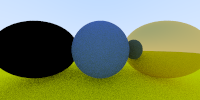
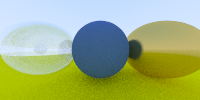
refract

diff --git a/src/main.cpp b/src/main.cpp
@@ -1,5 +1,4 @@
 #include <float.h>
-#include <random>
 #include <fstream>
 #include <iostream>
 
@@ -10,6 +9,7 @@
 #include <examples/imgui_impl_opengl3.h>
 
 #include "common.hpp"
+#include "random.hpp"
 #include "shader_utils.hpp"
 
 #include "camera.hpp"
@@ -17,52 +17,38 @@
 #include "material.hpp"
 #include "sphere.hpp"
 
-static const int Width = 200;
-static const int Height = 100;
-static const int Step = 100;
+namespace {
+const int Width = 200;
+const int Height = 100;
+const int Step = 100;
 
-static const int PositionLocation = 0;
-static const int PositionSize = 3;
+const int PositionLocation = 0;
+const int PositionSize = 3;
 
-static std::mt19937 randomEngine;
+GLFWwindow *window = nullptr;
 
-static GLFWwindow *window = nullptr;
+GLuint vIndex = 0;
+GLuint vPosition = 0;
+GLuint vertexArraysObject = 0;
 
-static GLuint vIndex = 0;
-static GLuint vPosition = 0;
-static GLuint vertexArraysObject = 0;
+GLint uTime = 0;
+GLint uMouse = 0;
+GLint uResolution = 0;
+GLint uImage0 = 0;
 
-static GLint uTime = 0;
-static GLint uMouse = 0;
-static GLint uResolution = 0;
-static GLint uImage0 = 0;
+GLuint texImage0 = 0;
 
-static GLuint texImage0 = 0;
+GLuint program = 0;
 
-static GLuint program = 0;
+char *pixels = nullptr;
 
-static char *pixels = nullptr;
+const GLfloat positions[] = {-1.0f, 1.0f,  0.0f, 1.0f, 1.0f,  0.0f,
+                             -1.0f, -1.0f, 0.0f, 1.0f, -1.0f, 0.0f};
 
-static const GLfloat positions[] = {-1.0f, 1.0f,  0.0f, 1.0f, 1.0f,  0.0f,
-                                    -1.0f, -1.0f, 0.0f, 1.0f, -1.0f, 0.0f};
+const GLushort indices[] = {0, 2, 1, 1, 2, 3};
 
-static const GLushort indices[] = {0, 2, 1, 1, 2, 3};
-
-static void glfw_error_callback(int error, const char *description) {
+void glfw_error_callback(int error, const char *description) {
     std::cerr << "error " << error << ": " << description << std::endl;
-}
-
-glm::vec3 randomInUnitSphere() {
-    std::uniform_real_distribution<float> random(-1.0f, 1.0f);
-
-    glm::vec3 p;
-
-    do {
-        p = glm::vec3(random(randomEngine), random(randomEngine),
-                      random(randomEngine));
-    } while (glm::length2(p) < 1.0f);
-
-    return p;
 }
 
 glm::vec3 getColor(const Ray &ray, Hittable *world, int depth) {
@@ -166,8 +152,11 @@ static void readText(char *&memblock, const char *const path) {
     memblock[size] = '\0';
     file.close();
 }
+}  // namespace
 
 int main(void) {
+    initializeRandomEngine();
+
     /* Initialize the library */
     if (!glfwInit()) return -1;
 
@@ -244,30 +233,27 @@ int main(void) {
     glm::vec3 vertical(0.0f, 2.0f, 0.0f);
     glm::vec3 origin(0.0f, 0.0f, 0.0f);
 
-    Hittable *list[4];
+    Hittable *list[5];
     list[0] = new Sphere(glm::vec3(0.0f, 0.0f, -1.0f), 0.5f,
                          new Lambertian(glm::vec3(0.1f, 0.2f, 0.5f)));
     list[1] = new Sphere(glm::vec3(0.0f, -100.5f, -1.0f), 100.0f,
                          new Lambertian(glm::vec3(0.8f, 0.8f, 0.0f)));
     list[2] = new Sphere(glm::vec3(1.0f, 0.0f, -1.0f), 0.5f,
-                         new Metal(glm::vec3(0.8f, 0.6f, 0.2f), 0.0f));
-    list[3] = new Sphere(glm::vec3(-1.0f, 0.0f, -1.0f), 0.5f,
-                         new Dielectric(1.5f));
-    HittableList *world = new HittableList(list, 4);
+                         new Metal(glm::vec3(0.8f, 0.6f, 0.2f), 0.125f));
+    list[3] =
+        new Sphere(glm::vec3(-1.0f, 0.0f, -1.0f), 0.5f, new Dielectric(1.5f));
+    list[4] =
+        new Sphere(glm::vec3(-1.0f, 0.0f, -1.0f), -0.45f, new Dielectric(1.5f));
+    HittableList *world = new HittableList(list, 5);
 
     Camera camera = Camera(float(Width) / float(Height));
-
-    std::random_device seed;
-    randomEngine = std::mt19937(seed());
-
-    std::uniform_real_distribution<float> random(-0.5f, 0.5f);
 
     for (int j = Height - 1; j >= 0; j--) {
         for (int i = 0; i < Width; i++) {
             glm::vec3 color(0.0f, 0.0f, 0.0f);
             for (int s = 0; s < Step; s++) {
-                float u = float(i + random(randomEngine)) / float(Width);
-                float v = float(j + random(randomEngine)) / float(Height);
+                float u = float(i + getRandom() - 0.5f) / float(Width);
+                float v = float(j + getRandom() - 0.5f) / float(Height);
                 Ray ray = camera.getRay(u, v);
                 color += getColor(ray, world, 0) / float(Step);
             }
@@ -285,14 +271,10 @@ int main(void) {
         }
     }
 
-    delete list[0]->pMaterial;
-    delete list[1]->pMaterial;
-    delete list[2]->pMaterial;
-    delete list[3]->pMaterial;
-    delete list[0];
-    delete list[1];
-    delete list[2];
-    delete list[3];
+    for (auto i = 0; i < 5; i++) {
+        delete list[i]->pMaterial;
+        delete list[i];
+    }
     delete world;
 
     glGenTextures(1, &texImage0);
@@ -307,7 +289,8 @@ int main(void) {
 
     const int NumComponents = 3;
     stbi_flip_vertically_on_write(1);
-    stbi_write_png("result.png", Width, Height, NumComponents, pixels, NumComponents * Width);
+    stbi_write_png("result.png", Width, Height, NumComponents, pixels,
+                   NumComponents * Width);
 
     delete[] pixels;
 

diff --git a/src/material.hpp b/src/material.hpp
@@ -1,7 +1,5 @@
 #pragma once
 
-glm::vec3 randomInUnitSphere();
-
 class Material {
    public:
     virtual bool scatter(const Ray& rayIn, const HitRecord& hitRecord,
@@ -59,6 +57,12 @@ bool refract(const glm::vec3& v, const glm::vec3& n, float niOverNt,
     return false;
 }
 
+float schlick(float cosine, float refIdx) {
+    auto r0 = (1.0f - refIdx) / (1.0f + refIdx);
+    r0 = r0 * r0;
+    return r0 + (1.0f - r0) * pow((1 - cosine), 5);
+}
+
 class Dielectric : public Material {
    public:
     Dielectric(float ri) : refIdx(ri) {}
@@ -71,19 +75,30 @@ class Dielectric : public Material {
         attenuation = glm::vec3(1.0f, 1.0f, 1.0f);
 
         glm::vec3 refracted;
-        if (glm::dot(rayIn.direction(), hitRecord.normal) > 0) {
+        float reflectProb;
+        float cosine;
+        if (glm::dot(rayIn.direction(), hitRecord.normal) > 0.0f) {
             outwardNormal = -hitRecord.normal;
             niOverNt = refIdx;
+            cosine = refIdx * dot(rayIn.direction(), hitRecord.normal) /
+                     rayIn.direction().length();
         } else {
             outwardNormal = hitRecord.normal;
             niOverNt = 1.0f / refIdx;
+            cosine = -dot(rayIn.direction(), hitRecord.normal) /
+                     rayIn.direction().length();
         }
 
-        if (refract(rayIn.direction(), outwardNormal, niOverNt, refracted) >
-            0.0f) {
-            scattered = Ray(hitRecord.p, refracted);
+        if (refract(rayIn.direction(), outwardNormal, niOverNt, refracted)) {
+            reflectProb = schlick(cosine, refIdx);
         } else {
+            reflectProb = 1.0f;
+        }
+
+        if (getRandom() < reflectProb) {
             scattered = Ray(hitRecord.p, reflected);
+        } else {
+            scattered = Ray(hitRecord.p, refracted);
         }
 
         return true;
@@ -91,9 +106,3 @@ class Dielectric : public Material {
 
     float refIdx;
 };
-
-float schlick(float cosine, float refIdx) {
-    auto r0 = (1.0f - refIdx) / (1.0f + refIdx);
-    r0 = r0 * r0;
-    return r0 + (1.0f - r0) * pow((1 - cosine), 5);
-}

diff --git a/src/random.cpp b/src/random.cpp
@@ -1,0 +1,27 @@
+#include <random>
+
+#include "random.hpp"
+
+namespace {
+std::mt19937 randomEngine;
+std::uniform_real_distribution<float> random;
+}  // namespace
+
+void initializeRandomEngine() {
+    std::random_device seed;
+    randomEngine = std::mt19937(seed());
+    random = std::uniform_real_distribution<float>(0.0f, 1.0f);
+}
+
+float getRandom() { return random(randomEngine); }
+
+glm::vec3 randomInUnitSphere() {
+    glm::vec3 p;
+
+    do {
+        p = glm::vec3(2.0f * getRandom() - 1.0f, 2.0f * getRandom() - 1.0f,
+                      2.0f * getRandom() - 1.0f);
+    } while (glm::length2(p) < 1.0f);
+
+    return p;
+}

diff --git a/src/hittable_list.hpp b/src/hittable_list.hpp
@@ -16,7 +16,7 @@ class HittableList : public Hittable {
         bool hitAnything = false;
         float closestSoFar = tMax;
 
-        for (int i = 0; i < listSize; i++) {
+        for (auto i = 0; i < listSize; i++) {
             if (list[i]->hit(r, tMin, closestSoFar, tempRec)) {
                 hitAnything = true;
                 closestSoFar = tempRec.t;

diff --git a/src/random.hpp b/src/random.hpp
@@ -1,0 +1,8 @@
+#pragma once
+
+#include <glm/glm.hpp>
+#include <glm/ext.hpp>
+
+void initializeRandomEngine();
+float getRandom();
+glm::vec3 randomInUnitSphere();
